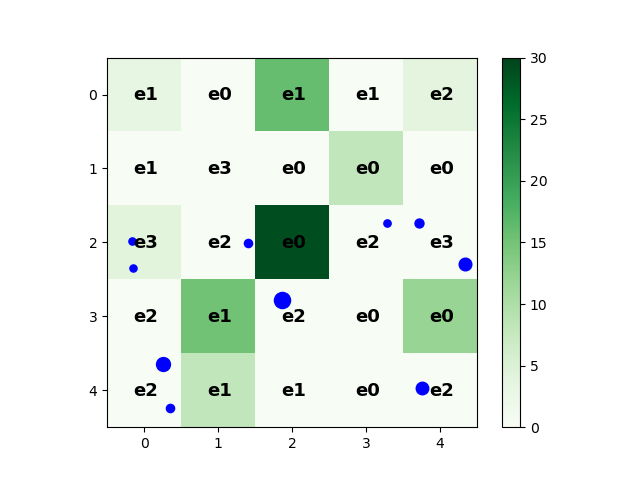
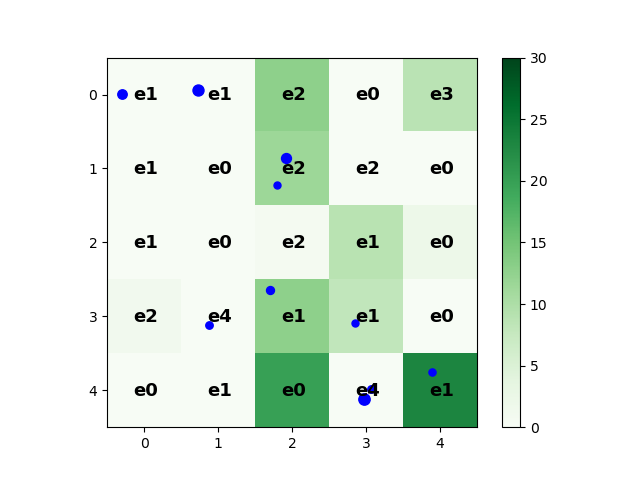
added citation counts

diff --git a/classScientist.py b/classScientist.py
@@ -7,10 +7,32 @@ class Scientist():
         self.career = np.random.randint(1, 31)
         # hindex corresponds to where you are in your career
         self.hindex = abs(np.random.randint(20 - self.career, 35 - self.career))
+        self.citcount = np.random.randint(0, 11)
 
     def __repr__(self):
         """String representation of Scientist"""
-        return str([self.hindex, self.career])
+        return str([self.hindex, self.career, self.citcount])
+        
+    def cite(self, val):
+        """decides if scientist chooses to cite another scientist in the same cell"""
+        choice = np.random.randint(0, 2)
+        # choice = 0 means they cite another scientist
+        # choice = 1 means they don't cite 
+        picked = Scientist()
+        if choice == 0:
+            maxcit = 0
+            maxSci = Scientist()
+            for sci in val:
+                if sci.citcount > maxcit:
+                    maxcit = sci.citcount
+                    maxSci = sci
+            if maxcit < 5:
+                picked = np.random.choice(val)
+            else:
+                picked = maxSci
+            
+            picked.citcount += 1
+        return (self.citcount, picked.citcount)
 
     def probHerd(self):
         """generate the probability of the scientist following the herd 

diff --git a/Run.py b/Run.py
@@ -23,7 +23,8 @@ def run(board, cellsHit, numRun):
             sciOrder = np.random.permutation(val)
             for scientist in sciOrder:
                 scientist.sciQuery(key, board)
-                # print("scientist: ", scientist)
+                scientist.cite(val)
+                print("scientist: ", scientist)
         else:
             val[0].sciQuery(key, board)
             # print("scientist: ", val[0])
